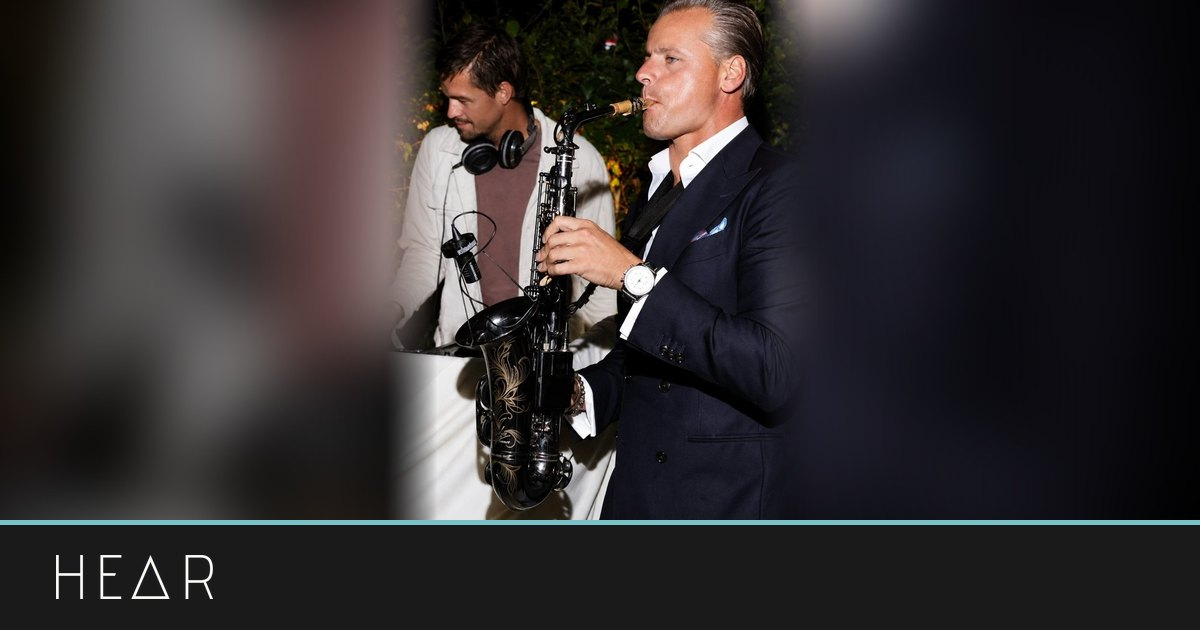
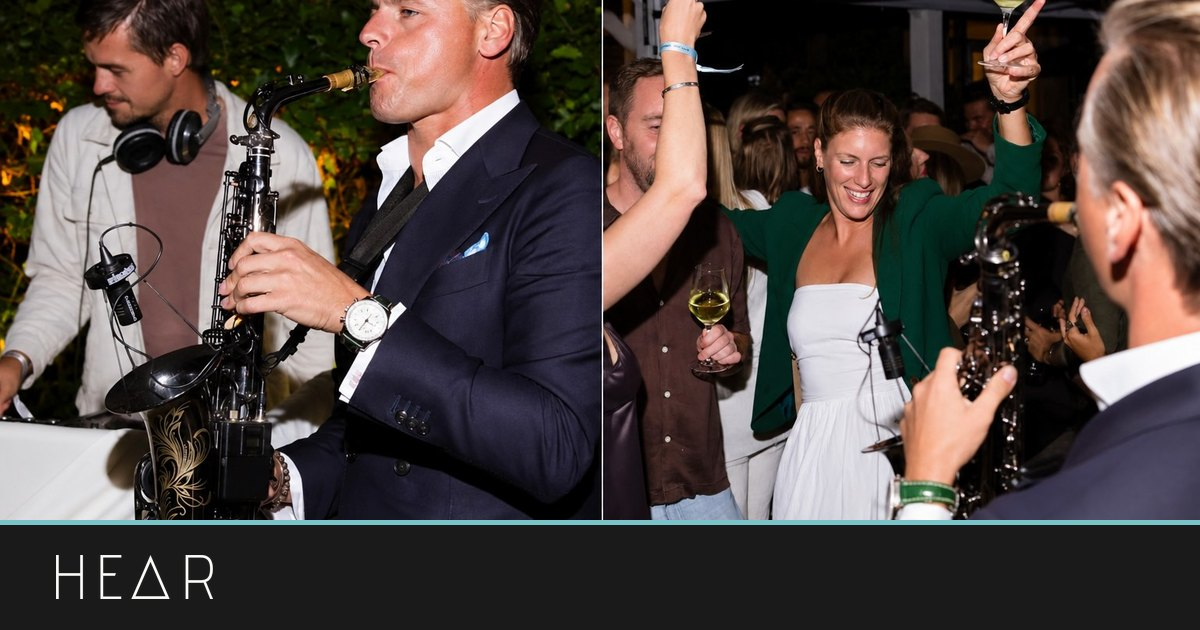
Volledige sax-diptiek in header, casepagina en tegel
Claude-Session: https://claude.ai/code/session_01JrXoYcMPPcQnaMa6rutHsx

diff --git a/site/en/jubileum-ondernemersnetwerk.html b/site/en/jubileum-ondernemersnetwerk.html
@@ -1,4 +1,4 @@
-<!doctype html><html lang="en"><head><meta charset="utf-8"><meta name="viewport" content="width=device-width,initial-scale=1"><meta name="description" content="Het Amsterdamse ondernemersnetwerk CreativeGrounds vierde zijn vijfjarig bestaan met een tuinfeest voor 150 ondernemers."><title>Jubileum ondernemersnetwerk · HEAR</title><!--og--><meta property="og:title" content="Jubileum ondernemersnetwerk · HEAR"><meta property="og:description" content="Het Amsterdamse ondernemersnetwerk CreativeGrounds vierde zijn vijfjarig bestaan met een tuinfeest voor 150 ondernemers."><meta property="og:url" content="https://hear.nl/en/jubileum-ondernemersnetwerk.html"><meta property="og:site_name" content="HEAR"><meta property="og:type" content="website"><meta property="og:locale" content="en_GB"><meta property="og:image" content="https://hear.nl/img/og/jubileum-ondernemersnetwerk.jpg?v=8f1ccb76"><meta property="og:image:width" content="1200"><meta property="og:image:height" content="630"><meta name="twitter:card" content="summary_large_image"><meta name="twitter:image" content="https://hear.nl/img/og/jubileum-ondernemersnetwerk.jpg?v=8f1ccb76"><link rel="canonical" href="https://hear.nl/en/jubileum-ondernemersnetwerk.html"><link rel="alternate" hreflang="nl" href="https://hear.nl/jubileum-ondernemersnetwerk.html"><link rel="alternate" hreflang="en" href="https://hear.nl/en/jubileum-ondernemersnetwerk.html"><link rel="alternate" hreflang="x-default" href="https://hear.nl/jubileum-ondernemersnetwerk.html"><!--/og--><link rel="stylesheet" href="/home.css"><link rel="stylesheet" href="/styles.css"></head><body class="pagina"><header class="top">
+<!doctype html><html lang="en"><head><meta charset="utf-8"><meta name="viewport" content="width=device-width,initial-scale=1"><meta name="description" content="Het Amsterdamse ondernemersnetwerk CreativeGrounds vierde zijn vijfjarig bestaan met een tuinfeest voor 150 ondernemers."><title>Jubileum ondernemersnetwerk · HEAR</title><!--og--><meta property="og:title" content="Jubileum ondernemersnetwerk · HEAR"><meta property="og:description" content="Het Amsterdamse ondernemersnetwerk CreativeGrounds vierde zijn vijfjarig bestaan met een tuinfeest voor 150 ondernemers."><meta property="og:url" content="https://hear.nl/en/jubileum-ondernemersnetwerk.html"><meta property="og:site_name" content="HEAR"><meta property="og:type" content="website"><meta property="og:locale" content="en_GB"><meta property="og:image" content="https://hear.nl/img/og/jubileum-ondernemersnetwerk.jpg?v=6af34bc2"><meta property="og:image:width" content="1200"><meta property="og:image:height" content="630"><meta name="twitter:card" content="summary_large_image"><meta name="twitter:image" content="https://hear.nl/img/og/jubileum-ondernemersnetwerk.jpg?v=6af34bc2"><link rel="canonical" href="https://hear.nl/en/jubileum-ondernemersnetwerk.html"><link rel="alternate" hreflang="nl" href="https://hear.nl/jubileum-ondernemersnetwerk.html"><link rel="alternate" hreflang="en" href="https://hear.nl/en/jubileum-ondernemersnetwerk.html"><link rel="alternate" hreflang="x-default" href="https://hear.nl/jubileum-ondernemersnetwerk.html"><!--/og--><link rel="stylesheet" href="/home.css"><link rel="stylesheet" href="/styles.css"></head><body class="pagina"><header class="top">
   <a class="merk" href="/en/index.html" aria-label="HEAR, to the homepage"><img src="/img/logo-white.png" alt="HEAR"></a>
   <nav class="topnav" aria-label="Main navigation">
     <a href="/en/cases.html" aria-current="page">Cases</a>
@@ -38,7 +38,7 @@
       var a=hk.querySelector(dx<0?'.zijnav .pijl:last-child':'.zijnav .pijl:first-child'); if(a&&a.href) location.href=a.href;
     },{passive:true});
   })();
-</script><main class="wrap"><section class="casehead"><a class="crumb" href="/en/cases.html"><span class="sectie">Cases</span><span class="scheiding" aria-hidden="true">|</span><span class="huidig">Milestone celebration for a business network</span></a><nav class="zijnav" aria-label="Other cases"><a class="pijl" href="/en/gemeentelijk-netwerkevent.html" title="Seminar and networking event" aria-label="Previous: Seminar and networking event">←</a><span class="bollen"><a href="/en/ade-dj.html" title="Transformation: from skate hall to dancefloor"></a><a href="/en/productpresentatie.html" title="Brand activation for a fashion brand"></a><a href="/en/gemeentelijk-netwerkevent.html" title="Seminar and networking event"></a><a href="/en/jubileum-ondernemersnetwerk.html" title="Milestone celebration for a business network" class="aan" aria-current="page"></a><a href="/en/dj-sets.html" title="A journey through 40 years of electronic music"></a><a href="/en/radio-mixes.html" title="Radio mixes for Deep Radio"></a><a href="/en/systeemadvies.html" title="Advice on the right sound system for your space"></a><a href="/en/prive-event.html" title="From industrial space to intimate atmosphere"></a><a href="/en/radio-mixes.html" title="Radio mixes for Deep Radio"></a></span><a class="pijl" href="/en/dj-sets.html" title="A journey through 40 years of electronic music" aria-label="Next: A journey through 40 years of electronic music">→</a></nav><h1 class="kernzin">Five years of CreativeGrounds: a luxurious garden party in Amsterdam's Oud-Zuid</h1></section><section class="casehero met-ballon"><div style="position:relative"><img src="/img/jubileum-breed.jpg" alt="DJ and saxophonist at a garden party"></div><figure class="ballon"><blockquote>At Creative Grounds we like a chic look in everything we do. We had already taken care of every detail of the event ourselves, and the audio, booth and visuals blended in nicely: not in the foreground, but as part of the overall look &amp; feel.</blockquote><figcaption><strong>Hugo Winnubst &amp; Lotte Nijborg</strong>Founders, CreativeGrounds</figcaption></figure></section><section class="case-sections"><article class="case-section"><h2>THE BRIEF</h2><div><p>CreativeGrounds wanted to throw a luxurious garden party in the middle of a residential neighbourhood in Amsterdam-Zuid. With good sound for the DJs and the saxophonist, and as little impact on the neighbours as possible.</p></div></article><article class="case-section"><h2>APPROACH</h2><div><p>We used powerful short-throw systems that don't carry far. During the party we measured the sound level regularly. Light, sound and the latest DJ gear supported the programme.</p></div></article><article class="case-section"><h2>RESULT</h2><div><p>Speeches, DJs and musicians flowed seamlessly into one another. The guests were dancing all night, without causing excessive disturbance to the neighbourhood. The equipment blended into the overall look & feel.</p></div></article></section><section class="relevant" aria-label="Relevante producten en diensten"><h2 class="relevant-kop">Related products and services</h2><div class="relevant-grid n3"><a class="visual-card" href="/en/artiesten.html"><img src="/img/jubileum-breed.jpg" alt="DJs and artists" loading="lazy"><span class="visual-card-shade"></span><span class="tegel-bekijk">View →</span><h2>DJs and artists</h2><p>DJs and live musicians who fit the event</p></a><a class="visual-card" href="/en/atmospheric-lighting.html"><img src="/img/diensten/pixelpars.jpg" alt="Ambient lighting" loading="lazy"><span class="visual-card-shade"></span><span class="tegel-bekijk">View →</span><h2>Ambient lighting</h2><p>Wireless full-colour ambient lighting</p></a><a class="visual-card" href="/en/high-end-audio.html"><img src="/img/diensten/kx-familie.jpg" alt="Sound" loading="lazy"><span class="visual-card-shade"></span><span class="tegel-bekijk">View →</span><h2>Sound</h2><p>Hybrid PA by RCF and Brooklyn Audio</p></a></div><div class="relevante-links"><p class="relevante-links-kop">Related links</p><ul><li class="inline-link"><a href="/en/diensten.html">All products and services →</a></li><li class="inline-link"><a href="/en/prijs.html">What does audiovisual support for an event actually cost? →</a></li></ul></div></section><section class="cta-brug"><p>Something like this for your event?</p><span class="wa-plus"><a class="wa" href="https://wa.me/31624560220?text=Hi%20Maarten%2C%20I%20saw%20the%20case%20%27Milestone%20celebration%20for%20a%20business%20network%27%20and%20have%20a%20question%20about%20my%20own%20event." target="_blank" rel="noopener" data-whatsapp><svg viewBox="0 0 24 24" aria-hidden="true"><path fill="currentColor" d="M12 2a10 10 0 0 0-8.6 15.1L2 22l5-1.3A10 10 0 1 0 12 2Zm0 18.2c-1.5 0-3-.4-4.3-1.2l-.3-.2-3 .8.8-2.9-.2-.3A8.2 8.2 0 1 1 12 20.2Zm4.5-6.1c-.2-.1-1.5-.7-1.7-.8-.2-.1-.4-.1-.6.1l-.8 1c-.1.2-.3.2-.5.1a6.7 6.7 0 0 1-3.3-2.9c-.3-.4.2-.4.7-1.4.1-.2 0-.3 0-.5l-.8-1.8c-.2-.5-.4-.4-.6-.4h-.5a1 1 0 0 0-.7.3 3 3 0 0 0-.9 2.2c0 1.3.9 2.5 1.1 2.7.1.2 1.8 2.8 4.4 3.9 1.7.7 2.3.8 3.1.7.5-.1 1.5-.6 1.7-1.2.2-.6.2-1.1.2-1.2l-.8-.3Z"/></svg><span>Ask your question via WhatsApp</span><i aria-hidden="true">→</i></a><a class="mail-ook" href="/en/aanvraag.html">or plan a call</a></span></section></main><footer class="voet">
+</script><main class="wrap"><section class="casehead"><a class="crumb" href="/en/cases.html"><span class="sectie">Cases</span><span class="scheiding" aria-hidden="true">|</span><span class="huidig">Milestone celebration for a business network</span></a><nav class="zijnav" aria-label="Other cases"><a class="pijl" href="/en/gemeentelijk-netwerkevent.html" title="Seminar and networking event" aria-label="Previous: Seminar and networking event">←</a><span class="bollen"><a href="/en/ade-dj.html" title="Transformation: from skate hall to dancefloor"></a><a href="/en/productpresentatie.html" title="Brand activation for a fashion brand"></a><a href="/en/gemeentelijk-netwerkevent.html" title="Seminar and networking event"></a><a href="/en/jubileum-ondernemersnetwerk.html" title="Milestone celebration for a business network" class="aan" aria-current="page"></a><a href="/en/dj-sets.html" title="A journey through 40 years of electronic music"></a><a href="/en/radio-mixes.html" title="Radio mixes for Deep Radio"></a><a href="/en/systeemadvies.html" title="Advice on the right sound system for your space"></a><a href="/en/prive-event.html" title="From industrial space to intimate atmosphere"></a><a href="/en/radio-mixes.html" title="Radio mixes for Deep Radio"></a></span><a class="pijl" href="/en/dj-sets.html" title="A journey through 40 years of electronic music" aria-label="Next: A journey through 40 years of electronic music">→</a></nav><h1 class="kernzin">Five years of CreativeGrounds: a luxurious garden party in Amsterdam's Oud-Zuid</h1></section><section class="casehero met-ballon diptiek"><div style="position:relative"><img src="/img/jubileum-diptiek.jpg" alt="DJ and saxophonist at a garden party, and guests dancing with a glass of wine" style="object-position:center 12%"></div><figure class="ballon"><blockquote>At Creative Grounds we like a chic look in everything we do. We had already taken care of every detail of the event ourselves, and the audio, booth and visuals blended in nicely: not in the foreground, but as part of the overall look &amp; feel.</blockquote><figcaption><strong>Hugo Winnubst &amp; Lotte Nijborg</strong>Founders, CreativeGrounds</figcaption></figure></section><section class="case-sections"><article class="case-section"><h2>THE BRIEF</h2><div><p>CreativeGrounds wanted to throw a luxurious garden party in the middle of a residential neighbourhood in Amsterdam-Zuid. With good sound for the DJs and the saxophonist, and as little impact on the neighbours as possible.</p></div></article><article class="case-section"><h2>APPROACH</h2><div><p>We used powerful short-throw systems that don't carry far. During the party we measured the sound level regularly. Light, sound and the latest DJ gear supported the programme.</p></div></article><article class="case-section"><h2>RESULT</h2><div><p>Speeches, DJs and musicians flowed seamlessly into one another. The guests were dancing all night, without causing excessive disturbance to the neighbourhood. The equipment blended into the overall look & feel.</p></div></article></section><section class="relevant" aria-label="Relevante producten en diensten"><h2 class="relevant-kop">Related products and services</h2><div class="relevant-grid n3"><a class="visual-card" href="/en/artiesten.html"><img src="/img/jubileum-breed.jpg" alt="DJs and artists" loading="lazy"><span class="visual-card-shade"></span><span class="tegel-bekijk">View →</span><h2>DJs and artists</h2><p>DJs and live musicians who fit the event</p></a><a class="visual-card" href="/en/atmospheric-lighting.html"><img src="/img/diensten/pixelpars.jpg" alt="Ambient lighting" loading="lazy"><span class="visual-card-shade"></span><span class="tegel-bekijk">View →</span><h2>Ambient lighting</h2><p>Wireless full-colour ambient lighting</p></a><a class="visual-card" href="/en/high-end-audio.html"><img src="/img/diensten/kx-familie.jpg" alt="Sound" loading="lazy"><span class="visual-card-shade"></span><span class="tegel-bekijk">View →</span><h2>Sound</h2><p>Hybrid PA by RCF and Brooklyn Audio</p></a></div><div class="relevante-links"><p class="relevante-links-kop">Related links</p><ul><li class="inline-link"><a href="/en/diensten.html">All products and services →</a></li><li class="inline-link"><a href="/en/prijs.html">What does audiovisual support for an event actually cost? →</a></li></ul></div></section><section class="cta-brug"><p>Something like this for your event?</p><span class="wa-plus"><a class="wa" href="https://wa.me/31624560220?text=Hi%20Maarten%2C%20I%20saw%20the%20case%20%27Milestone%20celebration%20for%20a%20business%20network%27%20and%20have%20a%20question%20about%20my%20own%20event." target="_blank" rel="noopener" data-whatsapp><svg viewBox="0 0 24 24" aria-hidden="true"><path fill="currentColor" d="M12 2a10 10 0 0 0-8.6 15.1L2 22l5-1.3A10 10 0 1 0 12 2Zm0 18.2c-1.5 0-3-.4-4.3-1.2l-.3-.2-3 .8.8-2.9-.2-.3A8.2 8.2 0 1 1 12 20.2Zm4.5-6.1c-.2-.1-1.5-.7-1.7-.8-.2-.1-.4-.1-.6.1l-.8 1c-.1.2-.3.2-.5.1a6.7 6.7 0 0 1-3.3-2.9c-.3-.4.2-.4.7-1.4.1-.2 0-.3 0-.5l-.8-1.8c-.2-.5-.4-.4-.6-.4h-.5a1 1 0 0 0-.7.3 3 3 0 0 0-.9 2.2c0 1.3.9 2.5 1.1 2.7.1.2 1.8 2.8 4.4 3.9 1.7.7 2.3.8 3.1.7.5-.1 1.5-.6 1.7-1.2.2-.6.2-1.1.2-1.2l-.8-.3Z"/></svg><span>Ask your question via WhatsApp</span><i aria-hidden="true">→</i></a><a class="mail-ook" href="/en/aanvraag.html">or plan a call</a></span></section></main><footer class="voet">
   <div class="voet-kolommen">
     <div class="voet-merk">
       <img src="/img/logo-white.png" alt="HEAR">

diff --git a/site/jubileum-ondernemersnetwerk.html b/site/jubileum-ondernemersnetwerk.html
@@ -1,4 +1,4 @@
-<!doctype html><html lang="nl"><head><meta charset="utf-8"><meta name="viewport" content="width=device-width,initial-scale=1"><meta name="description" content="Het Amsterdamse ondernemersnetwerk CreativeGrounds vierde zijn vijfjarig bestaan met een tuinfeest voor 150 ondernemers."><title>Jubileum ondernemersnetwerk · HEAR</title><!--og--><meta property="og:title" content="Jubileum ondernemersnetwerk · HEAR"><meta property="og:description" content="Het Amsterdamse ondernemersnetwerk CreativeGrounds vierde zijn vijfjarig bestaan met een tuinfeest voor 150 ondernemers."><meta property="og:url" content="https://hear.nl/jubileum-ondernemersnetwerk.html"><meta property="og:site_name" content="HEAR"><meta property="og:type" content="website"><meta property="og:locale" content="nl_NL"><meta property="og:image" content="https://hear.nl/img/og/jubileum-ondernemersnetwerk.jpg?v=8f1ccb76"><meta property="og:image:width" content="1200"><meta property="og:image:height" content="630"><meta name="twitter:card" content="summary_large_image"><meta name="twitter:image" content="https://hear.nl/img/og/jubileum-ondernemersnetwerk.jpg?v=8f1ccb76"><link rel="canonical" href="https://hear.nl/jubileum-ondernemersnetwerk.html"><link rel="alternate" hreflang="nl" href="https://hear.nl/jubileum-ondernemersnetwerk.html"><link rel="alternate" hreflang="en" href="https://hear.nl/en/jubileum-ondernemersnetwerk.html"><link rel="alternate" hreflang="x-default" href="https://hear.nl/jubileum-ondernemersnetwerk.html"><!--/og--><link rel="stylesheet" href="home.css"><link rel="stylesheet" href="styles.css"></head><body class="pagina"><header class="top">
+<!doctype html><html lang="nl"><head><meta charset="utf-8"><meta name="viewport" content="width=device-width,initial-scale=1"><meta name="description" content="Het Amsterdamse ondernemersnetwerk CreativeGrounds vierde zijn vijfjarig bestaan met een tuinfeest voor 150 ondernemers."><title>Jubileum ondernemersnetwerk · HEAR</title><!--og--><meta property="og:title" content="Jubileum ondernemersnetwerk · HEAR"><meta property="og:description" content="Het Amsterdamse ondernemersnetwerk CreativeGrounds vierde zijn vijfjarig bestaan met een tuinfeest voor 150 ondernemers."><meta property="og:url" content="https://hear.nl/jubileum-ondernemersnetwerk.html"><meta property="og:site_name" content="HEAR"><meta property="og:type" content="website"><meta property="og:locale" content="nl_NL"><meta property="og:image" content="https://hear.nl/img/og/jubileum-ondernemersnetwerk.jpg?v=6af34bc2"><meta property="og:image:width" content="1200"><meta property="og:image:height" content="630"><meta name="twitter:card" content="summary_large_image"><meta name="twitter:image" content="https://hear.nl/img/og/jubileum-ondernemersnetwerk.jpg?v=6af34bc2"><link rel="canonical" href="https://hear.nl/jubileum-ondernemersnetwerk.html"><link rel="alternate" hreflang="nl" href="https://hear.nl/jubileum-ondernemersnetwerk.html"><link rel="alternate" hreflang="en" href="https://hear.nl/en/jubileum-ondernemersnetwerk.html"><link rel="alternate" hreflang="x-default" href="https://hear.nl/jubileum-ondernemersnetwerk.html"><!--/og--><link rel="stylesheet" href="home.css"><link rel="stylesheet" href="styles.css"></head><body class="pagina"><header class="top">
   <a class="merk" href="index.html" aria-label="HEAR, naar de homepage"><img src="img/logo-white.png" alt="HEAR"></a>
   <nav class="topnav" aria-label="Hoofdnavigatie">
     <a href="cases.html" aria-current="page">Cases</a>
@@ -38,7 +38,7 @@
       var a=hk.querySelector(dx<0?'.zijnav .pijl:last-child':'.zijnav .pijl:first-child'); if(a&&a.href) location.href=a.href;
     },{passive:true});
   })();
-</script><main class="wrap"><section class="casehead"><a class="crumb" href="cases.html"><span class="sectie">Cases</span><span class="scheiding" aria-hidden="true">|</span><span class="huidig">Jubileum ondernemersnetwerk</span></a><nav class="zijnav" aria-label="Andere cases"><a class="pijl" href="gemeentelijk-netwerkevent.html" title="Seminar en netwerkevent" aria-label="Vorige: Seminar en netwerkevent">←</a><span class="bollen"><a href="ade-dj.html" title="Transformatie: van skatehal tot dansvloer"></a><a href="productpresentatie.html" title="Brand activation voor een modemerk"></a><a href="gemeentelijk-netwerkevent.html" title="Seminar en netwerkevent"></a><a href="jubileum-ondernemersnetwerk.html" title="Jubileum ondernemersnetwerk" class="aan" aria-current="page"></a><a href="dj-sets.html" title="Een reis door 40 jaar elektronische muziek"></a><a href="radio-mixes.html" title="Radio-mixes voor Deep Radio"></a><a href="systeemadvies.html" title="Advies over het beste soundsystem voor jouw ruimte"></a><a href="prive-event.html" title="Van industriële ruimte naar intieme sfeer"></a><a href="radio-mixes.html" title="Radio-mixes voor Deep Radio"></a></span><a class="pijl" href="dj-sets.html" title="Een reis door 40 jaar elektronische muziek" aria-label="Volgende: Een reis door 40 jaar elektronische muziek">→</a></nav><h1 class="kernzin">Vijf jaar CreativeGrounds: een luxe tuinfeest in Oud-Zuid</h1></section><section class="casehero met-ballon"><div style="position:relative"><img src="img/jubileum-breed.jpg" alt="DJ en saxofonist op een tuinfeest"></div><figure class="ballon"><blockquote>Bij Creative Grounds houden we van een chique uitstraling bij alles wat we doen. Zelf hadden we het hele event al tot in de puntjes verzorgd, en de AV ging daar onzichtbaar in mee, niet op de voorgrond maar als onderdeel van de gehele look &amp; feel.</blockquote><figcaption><strong>Hugo Winnubst &amp; Lotte Nijborg</strong>Founders CreativeGrounds</figcaption></figure></section><section class="case-sections"><article class="case-section"><h2>OPDRACHT</h2><div><p>CreativeGrounds wilde midden in een woonwijk in Amsterdam-Zuid een luxe tuinfeest geven. Met goed geluid voor de dj's en de saxofonist, en zo weinig mogelijk impact op de buurt.</p></div></article><article class="case-section"><h2>AANPAK</h2><div><p>We zetten krachtige systemen in voor korte afstand, die niet ver dragen. Tijdens het feest maten we regelmatig het geluidsniveau. Licht, geluid en de nieuwste dj-gear ondersteunden het programma.</p></div></article><article class="case-section"><h2>RESULTAAT</h2><div><p>Speeches, dj's en muzikanten gingen naadloos in elkaar over. De gasten waren uitbundig, zonder overmatige overlast voor de buurt te veroorzaken. De techniek ging onzichtbaar op in de aankleding.</p></div></article></section><section class="relevant" aria-label="Relevante producten en diensten"><h2 class="relevant-kop">Relevante producten en diensten</h2><div class="relevant-grid n3"><a class="visual-card" href="artiesten.html"><img src="img/jubileum-breed.jpg" alt="Dj’s en artiesten" loading="lazy"><span class="visual-card-shade"></span><span class="tegel-bekijk">Bekijk →</span><h2>Dj’s en artiesten</h2><p>Dj’s en live muzikanten die bij het event passen</p></a><a class="visual-card" href="atmospheric-lighting.html"><img src="img/diensten/pixelpars.jpg" alt="Sfeerlicht" loading="lazy"><span class="visual-card-shade"></span><span class="tegel-bekijk">Bekijk →</span><h2>Sfeerlicht</h2><p>Draadloos sfeerlicht, full-colour</p></a><a class="visual-card" href="high-end-audio.html"><img src="img/diensten/kx-familie.jpg" alt="Geluid" loading="lazy"><span class="visual-card-shade"></span><span class="tegel-bekijk">Bekijk →</span><h2>Geluid</h2><p>Hybride PA van RCF en Brooklyn Audio</p></a></div><div class="relevante-links"><p class="relevante-links-kop">Relevante links</p><ul><li class="inline-link"><a href="diensten.html">Alle producten en diensten →</a></li><li class="inline-link"><a href="prijs.html">Wat kost audiovisuele ondersteuning van een evenement eigenlijk? →</a></li></ul></div></section><section class="cta-brug"><p>Zoiets voor jouw event?</p><span class="wa-plus"><a class="wa" href="https://wa.me/31624560220?text=Hoi%20Maarten%2C%20ik%20zag%20de%20case%20%27Jubileum%20ondernemersnetwerk%27%20en%20heb%20een%20vraag%20voor%20mijn%20eigen%20event." target="_blank" rel="noopener" data-whatsapp><svg viewBox="0 0 24 24" aria-hidden="true"><path fill="currentColor" d="M12 2a10 10 0 0 0-8.6 15.1L2 22l5-1.3A10 10 0 1 0 12 2Zm0 18.2c-1.5 0-3-.4-4.3-1.2l-.3-.2-3 .8.8-2.9-.2-.3A8.2 8.2 0 1 1 12 20.2Zm4.5-6.1c-.2-.1-1.5-.7-1.7-.8-.2-.1-.4-.1-.6.1l-.8 1c-.1.2-.3.2-.5.1a6.7 6.7 0 0 1-3.3-2.9c-.3-.4.2-.4.7-1.4.1-.2 0-.3 0-.5l-.8-1.8c-.2-.5-.4-.4-.6-.4h-.5a1 1 0 0 0-.7.3 3 3 0 0 0-.9 2.2c0 1.3.9 2.5 1.1 2.7.1.2 1.8 2.8 4.4 3.9 1.7.7 2.3.8 3.1.7.5-.1 1.5-.6 1.7-1.2.2-.6.2-1.1.2-1.2l-.8-.3Z"/></svg><span>Stel je vraag via WhatsApp</span><i aria-hidden="true">→</i></a><a class="mail-ook" href="aanvraag.html">of plan een gesprek</a></span></section></main><footer class="voet">
+</script><main class="wrap"><section class="casehead"><a class="crumb" href="cases.html"><span class="sectie">Cases</span><span class="scheiding" aria-hidden="true">|</span><span class="huidig">Jubileum ondernemersnetwerk</span></a><nav class="zijnav" aria-label="Andere cases"><a class="pijl" href="gemeentelijk-netwerkevent.html" title="Seminar en netwerkevent" aria-label="Vorige: Seminar en netwerkevent">←</a><span class="bollen"><a href="ade-dj.html" title="Transformatie: van skatehal tot dansvloer"></a><a href="productpresentatie.html" title="Brand activation voor een modemerk"></a><a href="gemeentelijk-netwerkevent.html" title="Seminar en netwerkevent"></a><a href="jubileum-ondernemersnetwerk.html" title="Jubileum ondernemersnetwerk" class="aan" aria-current="page"></a><a href="dj-sets.html" title="Een reis door 40 jaar elektronische muziek"></a><a href="radio-mixes.html" title="Radio-mixes voor Deep Radio"></a><a href="systeemadvies.html" title="Advies over het beste soundsystem voor jouw ruimte"></a><a href="prive-event.html" title="Van industriële ruimte naar intieme sfeer"></a><a href="radio-mixes.html" title="Radio-mixes voor Deep Radio"></a></span><a class="pijl" href="dj-sets.html" title="Een reis door 40 jaar elektronische muziek" aria-label="Volgende: Een reis door 40 jaar elektronische muziek">→</a></nav><h1 class="kernzin">Vijf jaar CreativeGrounds: een luxe tuinfeest in Oud-Zuid</h1></section><section class="casehero met-ballon diptiek"><div style="position:relative"><img src="img/jubileum-diptiek.jpg" alt="DJ en saxofonist op een tuinfeest, en gasten die dansen met een glas wijn" style="object-position:center 12%"></div><figure class="ballon"><blockquote>Bij Creative Grounds houden we van een chique uitstraling bij alles wat we doen. Zelf hadden we het hele event al tot in de puntjes verzorgd, en de AV ging daar onzichtbaar in mee, niet op de voorgrond maar als onderdeel van de gehele look &amp; feel.</blockquote><figcaption><strong>Hugo Winnubst &amp; Lotte Nijborg</strong>Founders CreativeGrounds</figcaption></figure></section><section class="case-sections"><article class="case-section"><h2>OPDRACHT</h2><div><p>CreativeGrounds wilde midden in een woonwijk in Amsterdam-Zuid een luxe tuinfeest geven. Met goed geluid voor de dj's en de saxofonist, en zo weinig mogelijk impact op de buurt.</p></div></article><article class="case-section"><h2>AANPAK</h2><div><p>We zetten krachtige systemen in voor korte afstand, die niet ver dragen. Tijdens het feest maten we regelmatig het geluidsniveau. Licht, geluid en de nieuwste dj-gear ondersteunden het programma.</p></div></article><article class="case-section"><h2>RESULTAAT</h2><div><p>Speeches, dj's en muzikanten gingen naadloos in elkaar over. De gasten waren uitbundig, zonder overmatige overlast voor de buurt te veroorzaken. De techniek ging onzichtbaar op in de aankleding.</p></div></article></section><section class="relevant" aria-label="Relevante producten en diensten"><h2 class="relevant-kop">Relevante producten en diensten</h2><div class="relevant-grid n3"><a class="visual-card" href="artiesten.html"><img src="img/jubileum-breed.jpg" alt="Dj’s en artiesten" loading="lazy"><span class="visual-card-shade"></span><span class="tegel-bekijk">Bekijk →</span><h2>Dj’s en artiesten</h2><p>Dj’s en live muzikanten die bij het event passen</p></a><a class="visual-card" href="atmospheric-lighting.html"><img src="img/diensten/pixelpars.jpg" alt="Sfeerlicht" loading="lazy"><span class="visual-card-shade"></span><span class="tegel-bekijk">Bekijk →</span><h2>Sfeerlicht</h2><p>Draadloos sfeerlicht, full-colour</p></a><a class="visual-card" href="high-end-audio.html"><img src="img/diensten/kx-familie.jpg" alt="Geluid" loading="lazy"><span class="visual-card-shade"></span><span class="tegel-bekijk">Bekijk →</span><h2>Geluid</h2><p>Hybride PA van RCF en Brooklyn Audio</p></a></div><div class="relevante-links"><p class="relevante-links-kop">Relevante links</p><ul><li class="inline-link"><a href="diensten.html">Alle producten en diensten →</a></li><li class="inline-link"><a href="prijs.html">Wat kost audiovisuele ondersteuning van een evenement eigenlijk? →</a></li></ul></div></section><section class="cta-brug"><p>Zoiets voor jouw event?</p><span class="wa-plus"><a class="wa" href="https://wa.me/31624560220?text=Hoi%20Maarten%2C%20ik%20zag%20de%20case%20%27Jubileum%20ondernemersnetwerk%27%20en%20heb%20een%20vraag%20voor%20mijn%20eigen%20event." target="_blank" rel="noopener" data-whatsapp><svg viewBox="0 0 24 24" aria-hidden="true"><path fill="currentColor" d="M12 2a10 10 0 0 0-8.6 15.1L2 22l5-1.3A10 10 0 1 0 12 2Zm0 18.2c-1.5 0-3-.4-4.3-1.2l-.3-.2-3 .8.8-2.9-.2-.3A8.2 8.2 0 1 1 12 20.2Zm4.5-6.1c-.2-.1-1.5-.7-1.7-.8-.2-.1-.4-.1-.6.1l-.8 1c-.1.2-.3.2-.5.1a6.7 6.7 0 0 1-3.3-2.9c-.3-.4.2-.4.7-1.4.1-.2 0-.3 0-.5l-.8-1.8c-.2-.5-.4-.4-.6-.4h-.5a1 1 0 0 0-.7.3 3 3 0 0 0-.9 2.2c0 1.3.9 2.5 1.1 2.7.1.2 1.8 2.8 4.4 3.9 1.7.7 2.3.8 3.1.7.5-.1 1.5-.6 1.7-1.2.2-.6.2-1.1.2-1.2l-.8-.3Z"/></svg><span>Stel je vraag via WhatsApp</span><i aria-hidden="true">→</i></a><a class="mail-ook" href="aanvraag.html">of plan een gesprek</a></span></section></main><footer class="voet">
   <div class="voet-kolommen">
     <div class="voet-merk">
       <img src="img/logo-white.png" alt="HEAR">

diff --git a/site/index.html b/site/index.html
@@ -54,7 +54,7 @@
 <main>
 
   <section class="hero" aria-labelledby="hero-kop">
-    <img class="hero-bg aan" src="img/hero-dansvloer-blauw.jpg" alt="Dansvloer in blauw en rood licht, een dj achter de booth in de nevel" fetchpriority="high" data-i="0"><img class="hero-bg" src="assets/image9.jpeg" alt="Interview op een podium tijdens een seminar, met publiek op de voorgrond" fetchpriority="low" data-i="1" style="object-position:center 35%" aria-hidden="true"><img class="hero-bg" src="img/case-productpresentatie.jpg" alt="Sneakers op verlichte plateaus tijdens een brand activation" fetchpriority="low" data-i="2" style="object-position:center 55%" aria-hidden="true"><img class="hero-bg" src="img/case-ade.jpg" alt="Skatehal ingericht als dansvloer met een verlichte dj-booth" fetchpriority="low" data-i="3" style="object-position:center 45%" aria-hidden="true"><img class="hero-bg" src="img/jubileum-breed.jpg" alt="Tuinfeest met dj en saxofonist" fetchpriority="low" data-i="4" style="object-position:center 40%" aria-hidden="true"><div class="hero-bollen" role="group" aria-label="Kies een beeld"><button type="button" data-i="0" class="aan" aria-current="true" aria-label="Beeld 1"></button><button type="button" data-i="1" aria-label="Beeld 2"></button><button type="button" data-i="2" aria-label="Beeld 3"></button><button type="button" data-i="3" aria-label="Beeld 4"></button><button type="button" data-i="4" aria-label="Beeld 5"></button></div>
+    <img class="hero-bg aan" src="img/hero-dansvloer-blauw.jpg" alt="Dansvloer in blauw en rood licht, een dj achter de booth in de nevel" fetchpriority="high" data-i="0"><img class="hero-bg" src="assets/image9.jpeg" alt="Interview op een podium tijdens een seminar, met publiek op de voorgrond" fetchpriority="low" data-i="1" style="object-position:center 35%" aria-hidden="true"><img class="hero-bg" src="img/case-productpresentatie.jpg" alt="Sneakers op verlichte plateaus tijdens een brand activation" fetchpriority="low" data-i="2" style="object-position:center 55%" aria-hidden="true"><img class="hero-bg" src="img/case-ade.jpg" alt="Skatehal ingericht als dansvloer met een verlichte dj-booth" fetchpriority="low" data-i="3" style="object-position:center 45%" aria-hidden="true"><img class="hero-bg" src="img/jubileum-diptiek.jpg" alt="Tuinfeest met dj en saxofonist" fetchpriority="low" data-i="4" style="object-position:center 15%" aria-hidden="true"><div class="hero-bollen" role="group" aria-label="Kies een beeld"><button type="button" data-i="0" class="aan" aria-current="true" aria-label="Beeld 1"></button><button type="button" data-i="1" aria-label="Beeld 2"></button><button type="button" data-i="2" aria-label="Beeld 3"></button><button type="button" data-i="3" aria-label="Beeld 4"></button><button type="button" data-i="4" aria-label="Beeld 5"></button></div>
     <div class="hero-inhoud">
       <img class="hero-logo" src="img/logo-white.png" alt="HEAR">
       <div class="hero-blok">

diff --git a/site/en/index.html b/site/en/index.html
@@ -54,7 +54,7 @@
 <main>
 
   <section class="hero" aria-labelledby="hero-kop">
-    <img class="hero-bg aan" src="/img/hero-dansvloer-blauw.jpg" alt="Dancefloor in blue and red light, a DJ behind the booth in the haze" fetchpriority="high" data-i="0"><img class="hero-bg" src="/assets/image9.jpeg" alt="On-stage interview at a seminar, with the audience in the foreground" fetchpriority="low" data-i="1" style="object-position:center 35%" aria-hidden="true"><img class="hero-bg" src="/img/case-productpresentatie.jpg" alt="Sneakers on lit platforms at a brand activation" fetchpriority="low" data-i="2" style="object-position:center 55%" aria-hidden="true"><img class="hero-bg" src="/img/case-ade.jpg" alt="Skate hall set up as a dancefloor with an illuminated DJ booth" fetchpriority="low" data-i="3" style="object-position:center 45%" aria-hidden="true"><img class="hero-bg" src="/img/jubileum-breed.jpg" alt="Garden party with DJ and saxophonist" fetchpriority="low" data-i="4" style="object-position:center 40%" aria-hidden="true"><div class="hero-bollen" role="group" aria-label="Choose an image"><button type="button" data-i="0" class="aan" aria-current="true" aria-label="Image 1"></button><button type="button" data-i="1" aria-label="Image 2"></button><button type="button" data-i="2" aria-label="Image 3"></button><button type="button" data-i="3" aria-label="Image 4"></button><button type="button" data-i="4" aria-label="Image 5"></button></div>
+    <img class="hero-bg aan" src="/img/hero-dansvloer-blauw.jpg" alt="Dancefloor in blue and red light, a DJ behind the booth in the haze" fetchpriority="high" data-i="0"><img class="hero-bg" src="/assets/image9.jpeg" alt="On-stage interview at a seminar, with the audience in the foreground" fetchpriority="low" data-i="1" style="object-position:center 35%" aria-hidden="true"><img class="hero-bg" src="/img/case-productpresentatie.jpg" alt="Sneakers on lit platforms at a brand activation" fetchpriority="low" data-i="2" style="object-position:center 55%" aria-hidden="true"><img class="hero-bg" src="/img/case-ade.jpg" alt="Skate hall set up as a dancefloor with an illuminated DJ booth" fetchpriority="low" data-i="3" style="object-position:center 45%" aria-hidden="true"><img class="hero-bg" src="/img/jubileum-diptiek.jpg" alt="Garden party with DJ and saxophonist" fetchpriority="low" data-i="4" style="object-position:center 15%" aria-hidden="true"><div class="hero-bollen" role="group" aria-label="Choose an image"><button type="button" data-i="0" class="aan" aria-current="true" aria-label="Image 1"></button><button type="button" data-i="1" aria-label="Image 2"></button><button type="button" data-i="2" aria-label="Image 3"></button><button type="button" data-i="3" aria-label="Image 4"></button><button type="button" data-i="4" aria-label="Image 5"></button></div>
     <div class="hero-inhoud">
       <img class="hero-logo" src="/img/logo-white.png" alt="HEAR">
       <div class="hero-blok">

diff --git a/site/en/zakelijke-events.html b/site/en/zakelijke-events.html
@@ -47,7 +47,7 @@
 <label>Phone<input name="telefoon" type="tel" autocomplete="tel"></label>
 <label>What's it about<textarea name="bericht" placeholder="For example: a seminar for 120 guests in March, followed by drinks"></textarea></label>
 <button type="submit">Send</button><p class="lp-privacy">I usually reply the same working day. We only use your details to respond to you. <a href="/en/privacy.html">Privacy statement</a></p>
-<p class="lp-melding" hidden></p></form></div></section><section class="lp-band"><h2>Clients we've worked with</h2><div class="lp-cases" style="--kol:2"><a class="lp-case" href="/en/gemeentelijk-netwerkevent.html"><img src="/img/case-gemeente.jpg" alt="" loading="lazy"><div><span class="lp-chip">Corporate event</span><h3>From lectures to cocktail hour</h3><p>Seminar and networking event | 500 guests | The Hague municipality</p></div></a><a class="lp-case" href="/en/jubileum-ondernemersnetwerk.html"><img src="/img/jubileum-breed.jpg" alt="" loading="lazy"><div><span class="lp-chip">Corporate event</span><h3>A garden party in the middle of a residential area</h3><p>5 years of CreativeGrounds | DJ and saxophonist | directional sound</p></div></a></div></section></main><script>(function(){
+<p class="lp-melding" hidden></p></form></div></section><section class="lp-band"><h2>Clients we've worked with</h2><div class="lp-cases" style="--kol:2"><a class="lp-case" href="/en/gemeentelijk-netwerkevent.html"><img src="/img/case-gemeente.jpg" alt="" loading="lazy"><div><span class="lp-chip">Corporate event</span><h3>From lectures to cocktail hour</h3><p>Seminar and networking event | 500 guests | The Hague municipality</p></div></a><a class="lp-case" href="/en/jubileum-ondernemersnetwerk.html"><img src="/img/jubileum-diptiek.jpg" alt="" loading="lazy"><div><span class="lp-chip">Corporate event</span><h3>A garden party in the middle of a residential area</h3><p>5 years of CreativeGrounds | DJ and saxophonist | directional sound</p></div></a></div></section></main><script>(function(){
 document.querySelectorAll('.lp-stappen').forEach(function(k){var S=[].map.call(k.querySelectorAll('.lp-stapjes li'),function(li){var b=li.querySelectorAll('b');return [b[1].textContent,li.querySelector('span').textContent]}),i=0,alle=false,t=k.querySelector('h3'),x=k.querySelector('h3+p'),L=k.querySelector('.lp-stapjes'),b=k.querySelector('.lp-stapbal');
 function r(){t.textContent=S[i][0];x.textContent=S[i][1];t.hidden=x.hidden=alle;L.hidden=!alle;
 b.innerHTML=S.map(function(s,n){return '<button type="button" class="lp-n" data-n="'+n+'"'+(n===i&&!alle?' aria-current="step"':'')+' aria-label="Step '+(n+1)+': '+s[0]+'">'+(n+1)+'</button>'}).join('')+'<button type="button" class="lp-alle">'+(alle?'Show step by step':'View all steps')+'</button>'+(alle?'':'<button type="button" class="lp-volg">'+(i<S.length-1?'Next':'Start again')+'</button>');}

diff --git a/site/zakelijke-events.html b/site/zakelijke-events.html
@@ -47,7 +47,7 @@
 <label>Telefoon<input name="telefoon" type="tel" autocomplete="tel"></label>
 <label>Waar gaat het over<textarea name="bericht" placeholder="Bijvoorbeeld: seminar voor 120 gasten in maart, met borrel"></textarea></label>
 <button type="submit">Verstuur</button><p class="lp-privacy">Ik reageer meestal dezelfde werkdag. We gebruiken je gegevens alleen om je te antwoorden. <a href="privacy.html">Privacyverklaring</a></p>
-<p class="lp-melding" hidden></p></form></div></section><section class="lp-band"><h2>Deze opdrachtgevers gingen je voor</h2><div class="lp-cases" style="--kol:2"><a class="lp-case" href="gemeentelijk-netwerkevent.html"><img src="img/case-gemeente.jpg" alt="" loading="lazy"><div><span class="lp-chip">Zakelijk event</span><h3>Van lezingen naar cocktail hour</h3><p>Seminar en netwerkevent | 500 gasten | gemeente Den Haag</p></div></a><a class="lp-case" href="jubileum-ondernemersnetwerk.html"><img src="img/jubileum-breed.jpg" alt="" loading="lazy"><div><span class="lp-chip">Zakelijk event</span><h3>Een tuinfeest midden in een woonwijk</h3><p>5 jaar CreativeGrounds | dj en saxofonist | gericht geluid</p></div></a></div></section></main><script>(function(){
+<p class="lp-melding" hidden></p></form></div></section><section class="lp-band"><h2>Deze opdrachtgevers gingen je voor</h2><div class="lp-cases" style="--kol:2"><a class="lp-case" href="gemeentelijk-netwerkevent.html"><img src="img/case-gemeente.jpg" alt="" loading="lazy"><div><span class="lp-chip">Zakelijk event</span><h3>Van lezingen naar cocktail hour</h3><p>Seminar en netwerkevent | 500 gasten | gemeente Den Haag</p></div></a><a class="lp-case" href="jubileum-ondernemersnetwerk.html"><img src="img/jubileum-diptiek.jpg" alt="" loading="lazy"><div><span class="lp-chip">Zakelijk event</span><h3>Een tuinfeest midden in een woonwijk</h3><p>5 jaar CreativeGrounds | dj en saxofonist | gericht geluid</p></div></a></div></section></main><script>(function(){
 document.querySelectorAll('.lp-stappen').forEach(function(k){var S=[].map.call(k.querySelectorAll('.lp-stapjes li'),function(li){var b=li.querySelectorAll('b');return [b[1].textContent,li.querySelector('span').textContent]}),i=0,alle=false,t=k.querySelector('h3'),x=k.querySelector('h3+p'),L=k.querySelector('.lp-stapjes'),b=k.querySelector('.lp-stapbal');
 function r(){t.textContent=S[i][0];x.textContent=S[i][1];t.hidden=x.hidden=alle;L.hidden=!alle;
 b.innerHTML=S.map(function(s,n){return '<button type="button" class="lp-n" data-n="'+n+'"'+(n===i&&!alle?' aria-current="step"':'')+' aria-label="Stap '+(n+1)+': '+s[0]+'">'+(n+1)+'</button>'}).join('')+'<button type="button" class="lp-alle">'+(alle?'Toon per stap':'Bekijk alle stappen')+'</button>'+(alle?'':'<button type="button" class="lp-volg">'+(i<S.length-1?'Volgende':'Opnieuw')+'</button>');}

diff --git a/site/styles.css b/site/styles.css
@@ -697,3 +697,5 @@ button.knop:disabled{opacity:.6;cursor:wait}
 .vh{position:absolute;width:1px;height:1px;overflow:hidden;clip:rect(0 0 0 0);white-space:nowrap}
 .nieuws-beeld{position:relative;display:block}
 .labels .rubriek-punt{display:none}
+/* Jubileum: diptiek links, citaat rechts op donker (7 nov) */
+@media (min-width:901px){.casehero.diptiek>div{width:70%}}

diff --git a/docs/besluiten.md b/docs/besluiten.md
@@ -505,3 +505,4 @@ Nieuws: de EN-knop op nieuwspagina's leidt naar de Engelse homepage (ging naar d
 - Nieuwstegel Melandru krijgt het ADE-label, net als de casetegel.
 - Homepage: Over HEAR is een strook van drie delen op desktop (beeld | tekst | CTA); het losse afsluitblok eronder is opgegaan in die strook. Mobiel: beeld, tekst, CTA onder elkaar.
 - Hoofdmenu (balk en uitklapmenu, NL en EN): Nieuws vóór Over HEAR, zelfde volgorde als op de homepage. Site op 7 nov door Maarten "af" verklaard.
+- Jubileum/CreativeGrounds: volledige diptiek (sax + dansende gasten) in header-carrousel (slide 5), casepagina-header (desktop: beeld 70% links, citaat rechts op donker) en liggende tegel bij Eventmanagers. Staande tegels en artiesten-tegels houden het oude beeld.
